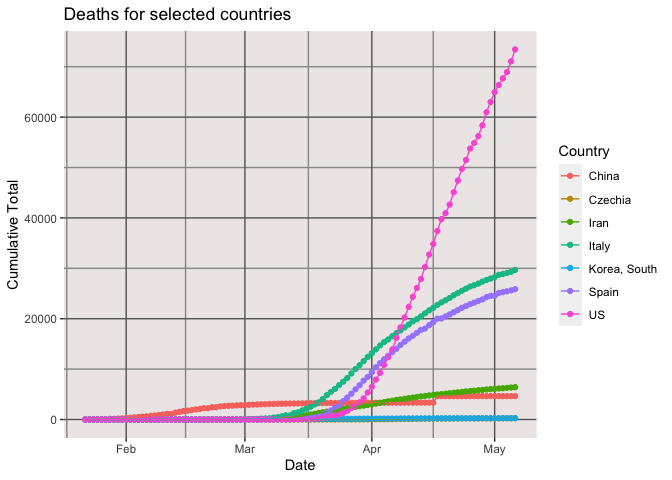
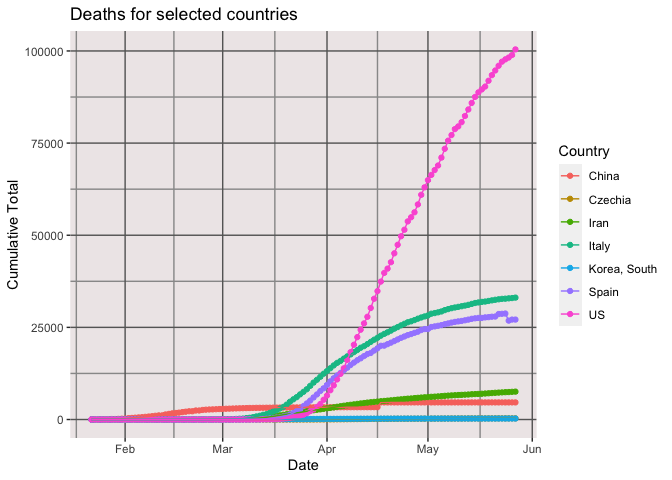
Updated data to 2020-05-27.

Changed region(s): [[0.0312, 0.0, 0.8125, 1.0], [0.7812, 0.9062, 0.8125, 0.9688]]

diff --git a/vignettes/covid19_deaths_by_state.md b/vignettes/covid19_deaths_by_state.md
@@ -1,7 +1,7 @@
 COVID-19 Deaths by State
 ================
 [Jim Tyhurst, Ph.D.](https://www.jimtyhurst.com/)
-2020-05-07
+2020-05-27
 
   - [Read data](#read-data)
   - [Cases by state](#cases-by-state)

diff --git a/vignettes/covid19_confirmed_cases.md b/vignettes/covid19_confirmed_cases.md
@@ -1,7 +1,7 @@
 COVID-19 Confirmed Cases
 ================
 [Jim Tyhurst, Ph.D.](https://www.jimtyhurst.com/)
-2020-05-07
+2020-05-27
 
   - [tl;dr](#tldr)
 

diff --git a/vignettes/covid19_deaths.md b/vignettes/covid19_deaths.md
@@ -1,7 +1,7 @@
 COVID-19 Deaths
 ================
 [Jim Tyhurst, Ph.D.](https://www.jimtyhurst.com/)
-2020-05-07
+2020-05-27
 
   - [tl;dr](#tldr)
 
